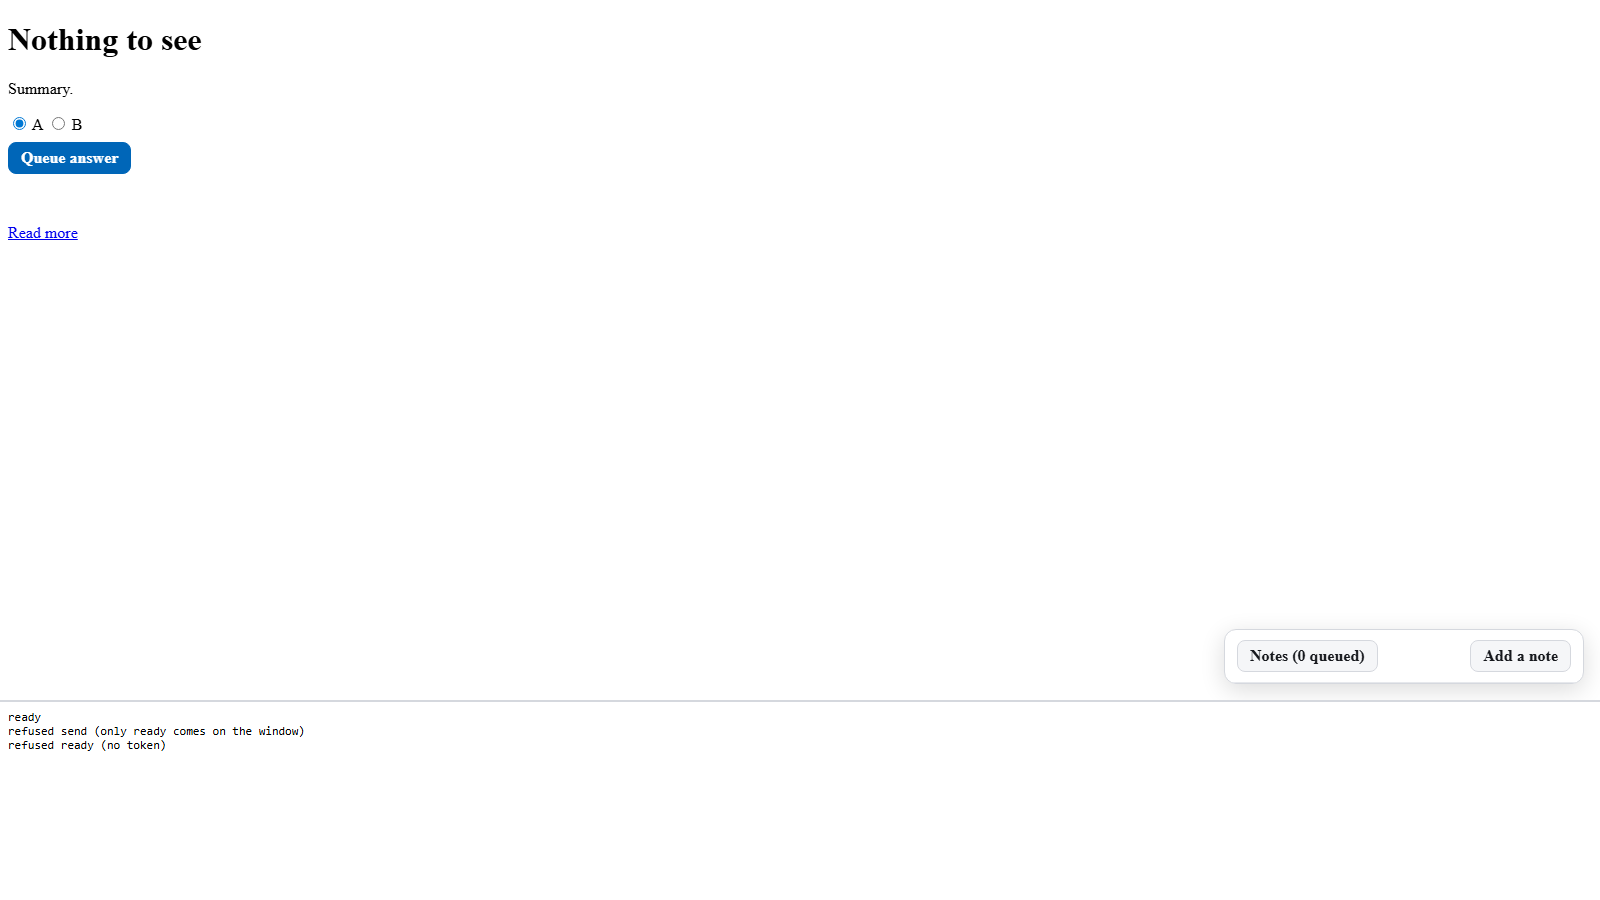
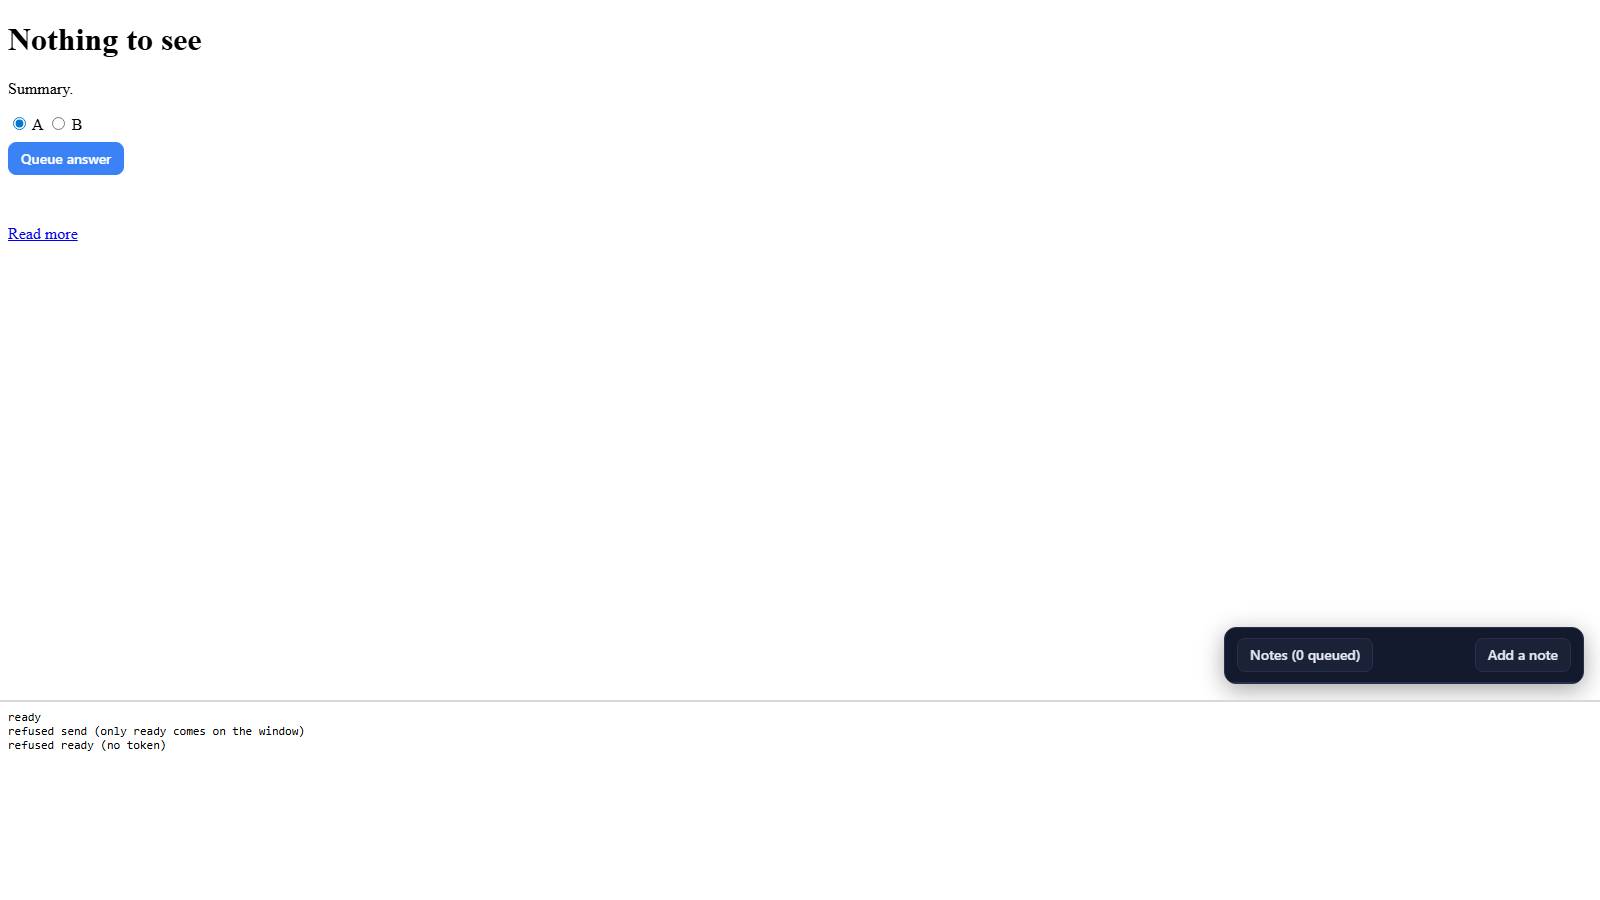
Dev reports phase 3: question row status readable on any report background; notes proof rerun (14 of 14 pass)

Changed region(s): [[0.75, 0.6844, 1.0, 0.7778], [0.0, 0.1556, 0.0938, 0.2178], [0.0, 0.2489, 0.0625, 0.28]]

diff --git a/packages/client-core/src/devreports/dev-report-notes.js b/packages/client-core/src/devreports/dev-report-notes.js
@@ -671,7 +671,10 @@
       "textarea { width: 100%; min-height: 64px; font: inherit; padding: 6px 8px; background: " + t.background + "; color: " + t.text + "; border: 1px solid " + t.border + "; border-radius: 8px; }",
       ".drn-row { display: flex; flex-wrap: wrap; align-items: center; gap: 6px; margin-top: 8px; }",
       ".drn-payload { white-space: pre-wrap; overflow-wrap: anywhere; font-family: " + t.monoFont + "; font-size: 12px; background: " + t.background + "; border: 1px solid " + t.border + "; border-radius: 8px; padding: 8px; }",
-      ".drn-q-state { font-size: 13px; margin-left: 8px; }",
+      // The question row sits on the report's own background, whatever colour that is, so its words carry
+      // their own surface rather than relying on the page behind them.
+      ".drn-q-state { font-size: 13px; margin-left: 8px; padding: 4px 8px; border-radius: 6px; background: " + t.surface + "; color: " + t.text + "; }",
+      ".drn-q-state:empty { display: none; }",
       "@media (max-width: 600px) { .drn-tray { right: 0; left: 0; bottom: 0; width: auto; max-width: none; max-height: 70vh; border-radius: 12px 12px 0 0; } }"
     ].join("\n");
   }
